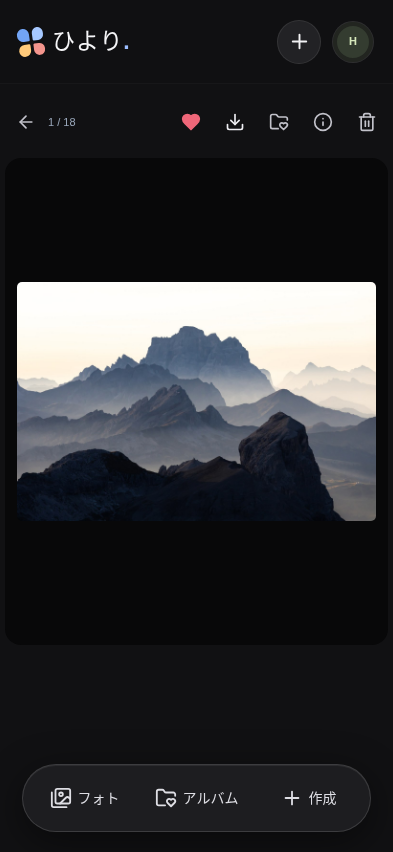
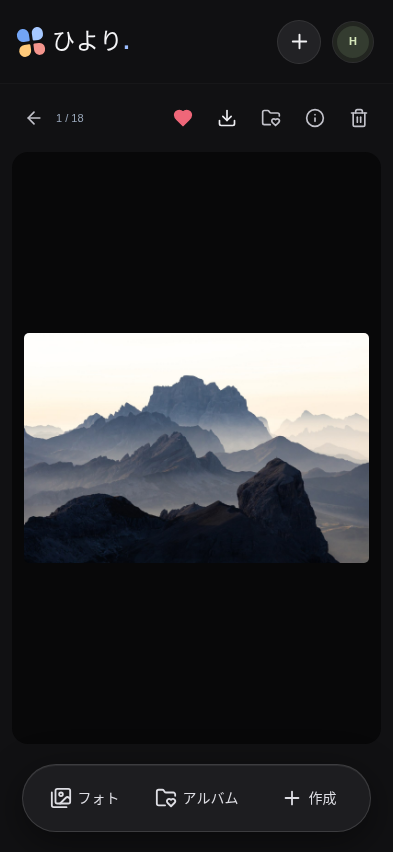
fix: lock photo viewer and reveal arrows on tap

diff --git a/apps/frontend/src/SwipePhotoStage.tsx b/apps/frontend/src/SwipePhotoStage.tsx
@@ -1,31 +1,74 @@
-import { useRef } from 'react';
+import { useRef, useState } from 'react';
+import { ArrowLeft, ArrowRight } from 'lucide-react';
+import { Button } from './components/ui/button';
 
 export function SwipePhotoStage({
   src,
   name,
   onPrevious,
   onNext,
+  initialArrowsVisible = false,
+  onArrowsChange,
 }: {
   src: string;
   name: string;
   onPrevious?: () => void;
   onNext?: () => void;
+  initialArrowsVisible?: boolean;
+  onArrowsChange?: (visible: boolean) => void;
 }) {
-  const start = useRef<{ id: number; x: number; y: number } | null>(null);
+  const [arrowsVisible, setArrowsVisible] = useState(initialArrowsVisible);
+  const start = useRef<{
+    id: number;
+    x: number;
+    y: number;
+    moved: boolean;
+  } | null>(null);
+  function toggleArrows() {
+    const visible = !arrowsVisible;
+    setArrowsVisible(visible);
+    onArrowsChange?.(visible);
+  }
   return (
     <div
       className="detail-stage swipe-photo-stage"
       role="group"
-      aria-label="写真ビューアー。左右スワイプまたは左右キーで写真を移動"
+      aria-label="写真ビューアー。左右スワイプ・左右キーで移動、タップ・Enterで矢印を切り替え"
+      tabIndex={0}
+      onKeyDown={(event) => {
+        if (
+          event.target === event.currentTarget &&
+          (event.key === 'Enter' || event.key === ' ')
+        ) {
+          event.preventDefault();
+          toggleArrows();
+        }
+      }}
       onPointerDown={(event) => {
         start.current = null;
-        if (event.button !== 0 || event.isPrimary === false) return;
+        if (
+          event.button !== 0 ||
+          event.isPrimary === false ||
+          (event.target as Element).closest('button')
+        )
+          return;
         start.current = {
           id: event.pointerId,
           x: event.clientX,
           y: event.clientY,
+          moved: false,
         };
         event.currentTarget.setPointerCapture?.(event.pointerId);
+      }}
+      onPointerMove={(event) => {
+        if (
+          start.current &&
+          Math.hypot(
+            event.clientX - start.current.x,
+            event.clientY - start.current.y,
+          ) > 10
+        )
+          start.current.moved = true;
       }}
       onPointerUp={(event) => {
         const origin = start.current;
@@ -33,6 +76,10 @@ export function SwipePhotoStage({
         if (!origin || origin.id !== event.pointerId) return;
         const dx = event.clientX - origin.x;
         const dy = event.clientY - origin.y;
+        if (!origin.moved && Math.hypot(dx, dy) <= 10) {
+          toggleArrows();
+          return;
+        }
         if (Math.abs(dx) < 50 || Math.abs(dx) <= Math.abs(dy) * 1.5) return;
         if (dx < 0) onNext?.();
         else onPrevious?.();
@@ -45,6 +92,34 @@ export function SwipePhotoStage({
       }}
     >
       <img className="detail-image" src={src} alt={name} draggable={false} />
+      {arrowsVisible && (
+        <>
+          <Button
+            className="previous-photo"
+            variant="outline"
+            size="icon"
+            aria-label="前の写真"
+            disabled={!onPrevious}
+            onPointerDown={(event) => event.stopPropagation()}
+            onPointerUp={(event) => event.stopPropagation()}
+            onClick={onPrevious}
+          >
+            <ArrowLeft size={20} />
+          </Button>
+          <Button
+            className="next-photo"
+            variant="outline"
+            size="icon"
+            aria-label="次の写真"
+            disabled={!onNext}
+            onPointerDown={(event) => event.stopPropagation()}
+            onPointerUp={(event) => event.stopPropagation()}
+            onClick={onNext}
+          >
+            <ArrowRight size={20} />
+          </Button>
+        </>
+      )}
     </div>
   );
 }

diff --git a/apps/frontend/src/SwipePhotoStage.test.tsx b/apps/frontend/src/SwipePhotoStage.test.tsx
@@ -73,3 +73,51 @@ it('先頭・末尾では折り返さず、画像の代替テキストを保つ'
   expect(screen.getByRole('img', { name: '湖畔' })).toBeTruthy();
   expect(screen.queryByRole('button')).toBeNull();
 });
+
+it('タップで矢印を切り替え、画像を作り直さず矢印ボタンで移動する', () => {
+  const onNext = vi.fn(),
+    onArrowsChange = vi.fn();
+  render(
+    <SwipePhotoStage
+      src="photo.jpg"
+      name="湖畔"
+      onNext={onNext}
+      onArrowsChange={onArrowsChange}
+    />,
+  );
+  const stage = screen.getByRole('group');
+  const image = screen.getByRole('img');
+  fireEvent.pointerDown(stage, { button: 0, clientX: 100, clientY: 100 });
+  fireEvent.pointerUp(stage, { clientX: 100, clientY: 100 });
+  const next = screen.getByRole('button', { name: '次の写真' });
+  expect(
+    screen.getByRole('button', { name: '前の写真' }).hasAttribute('disabled'),
+  ).toBe(true);
+  fireEvent.pointerDown(next, { button: 0 });
+  fireEvent.pointerUp(next);
+  fireEvent.click(next);
+  expect(onNext).toHaveBeenCalledOnce();
+  expect(screen.getByRole('button', { name: '次の写真' })).toBe(next);
+  expect(screen.getByRole('img')).toBe(image);
+  fireEvent.pointerDown(stage, { button: 0, clientX: 100, clientY: 100 });
+  fireEvent.pointerUp(stage, { clientX: 100, clientY: 100 });
+  expect(screen.queryByRole('button')).toBeNull();
+  expect(screen.getByRole('img')).toBe(image);
+  expect(onArrowsChange.mock.calls).toEqual([[true], [false]]);
+});
+it('移動して戻したジェスチャーをタップと誤判定しない', () => {
+  render(<SwipePhotoStage src="photo.jpg" name="湖畔" />);
+  const stage = screen.getByRole('group');
+  fireEvent.pointerDown(stage, { button: 0, clientX: 100, clientY: 100 });
+  fireEvent.pointerMove(stage, { clientX: 200, clientY: 100 });
+  fireEvent.pointerUp(stage, { clientX: 100, clientY: 100 });
+  expect(screen.queryByRole('button')).toBeNull();
+});
+it('EnterとSpaceで矢印を表示・非表示にできる', () => {
+  render(<SwipePhotoStage src="photo.jpg" name="湖畔" />);
+  const stage = screen.getByRole('group');
+  fireEvent.keyDown(stage, { key: 'Enter' });
+  expect(screen.getAllByRole('button')).toHaveLength(2);
+  fireEvent.keyDown(stage, { key: ' ' });
+  expect(screen.queryByRole('button')).toBeNull();
+});

diff --git a/apps/frontend/src/MobileDark.stories.tsx b/apps/frontend/src/MobileDark.stories.tsx
@@ -13,7 +13,7 @@ const meta = {
     docs: {
       description: {
         component:
-          '参考画像をもとにしたUIレビュー案。サイドバーとメニューボタンを表示せず、PCでも下部ナビから操作します。ヘッダーはスクロールに追従せず、フォト・アルバム・作成のナビは背景不透明度35%で浮かべます。フォトは見出し・枚数・表示切替・絞り込み・並び順を省き、日付の区切りがない写真グリッドを表示し、スクロール中は上端の写真のアップロード週（UTC）を半透明ラベルで示します。写真詳細は左右の矢印と下部キャプションを省略し、左右スワイプで前後の写真へ移動します。通常時は選択の丸を表示せず、500msの長押し（キーボードはShift+Enter）で複数選択に入ります。選択中は上部に選択数、下部にアルバム追加・お気に入り・ゴミ箱への移動を表示します。共通Appと既存APIを使用し、通常起動は従来のデザインを維持します。393×852でのレビューを推奨。',
+          '参考画像をもとにしたUIレビュー案。サイドバーとメニューボタンを表示せず、PCでも下部ナビから操作します。ヘッダーはスクロールに追従せず、フォト・アルバム・作成のナビは背景不透明度35%で浮かべます。フォトは見出し・枚数・表示切替・絞り込み・並び順を省き、日付の区切りがない写真グリッドを表示し、スクロール中は上端の写真のアップロード週（UTC）を半透明ラベルで示します。写真詳細は上下スクロールせず画面内に固定。左右スワイプで前後へ移動し、写真のタップで矢印を表示・非表示に切り替えます。下部キャプションは表示しません。通常時は選択の丸を表示せず、500msの長押し（キーボードはShift+Enter）で複数選択に入ります。選択中は上部に選択数、下部にアルバム追加・お気に入り・ゴミ箱への移動を表示します。共通Appと既存APIを使用し、通常起動は従来のデザインを維持します。393×852でのレビューを推奨。',
       },
     },
   },

diff --git a/apps/frontend/tests/mobile-dark.spec.ts b/apps/frontend/tests/mobile-dark.spec.ts
@@ -292,7 +292,7 @@ test.describe('長押し選択', () => {
 
 test.describe('写真詳細のスワイプ', () => {
   test.use({ hasTouch: true });
-  test('写真詳細は矢印・キャプションなしで左右スワイプできる', async ({
+  test('写真詳細は上下固定でスワイプし、タップで矢印を切り替えられる', async ({
     page,
   }) => {
     await page.setViewportSize({ width: 393, height: 852 });
@@ -340,7 +340,32 @@ test.describe('写真詳細のスワイプ', () => {
     await expect(photo).toHaveAttribute('alt', '湖畔の朝');
     await swipe('short');
     await expect(photo).toHaveAttribute('alt', '湖畔の朝');
+    const fixedY = (await page.locator('.swipe-photo-stage').boundingBox())?.y;
     await swipe('vertical');
+    await expect(photo).toHaveAttribute('alt', '湖畔の朝');
+    expect(await page.evaluate(() => window.scrollY)).toBe(0);
+    expect((await page.locator('.swipe-photo-stage').boundingBox())?.y).toBe(
+      fixedY,
+    );
+    await page.mouse.wheel(0, 400);
+    await page.evaluate(() => new Promise(requestAnimationFrame));
+    expect(await page.evaluate(() => window.scrollY)).toBe(0);
+    await photo.tap();
+    await expect(
+      page.getByRole('button', { name: '次の写真', exact: true }),
+    ).toBeVisible();
+    await expect(
+      page.getByRole('button', { name: '前の写真', exact: true }),
+    ).toBeDisabled();
+    await page.getByRole('button', { name: '次の写真', exact: true }).tap();
+    await expect(photo).toHaveAttribute('alt', '山へ続く道');
+    await page.getByRole('button', { name: '次の写真', exact: true }).tap();
+    await expect(photo).toHaveAttribute('alt', '青い時間');
+    await page.getByRole('button', { name: '前の写真', exact: true }).tap();
+    await expect(photo).toHaveAttribute('alt', '山へ続く道');
+    await photo.tap();
+    await expect(page.locator('.previous-photo, .next-photo')).toHaveCount(0);
+    await page.keyboard.press('ArrowLeft');
     await expect(photo).toHaveAttribute('alt', '湖畔の朝');
     await page.keyboard.press('ArrowRight');
     await expect(photo).toHaveAttribute('alt', '山へ続く道');

diff --git a/apps/frontend/src/App.tsx b/apps/frontend/src/App.tsx
@@ -118,6 +118,7 @@ function PhotoApp({
     location = useLocation(),
     fileInput = useRef<HTMLInputElement>(null);
   const ignoredPhotoClick = useRef<string | null>(null);
+  const detailArrows = useRef(false);
   function endSelection() {
     setSelected([]);
     setSelectionMode(false);
@@ -167,6 +168,7 @@ function PhotoApp({
   }, []);
   useEffect(() => {
     endSelection();
+    if (!location.pathname.startsWith('/photo/')) detailArrows.current = false;
     setMobileMenu(false);
     setFilter('すべて');
     setShowInfo(false);
@@ -645,6 +647,10 @@ function PhotoApp({
           <SwipePhotoStage
             src={photo.src}
             name={photo.name}
+            initialArrowsVisible={detailArrows.current}
+            onArrowsChange={(visible) => {
+              detailArrows.current = visible;
+            }}
             onPrevious={
               previous ? () => navigate('/photo/' + previous.id) : undefined
             }
@@ -724,7 +730,7 @@ function PhotoApp({
   }
   return (
     <div
-      className={`app-shell${designPreview ? ' mobile-dark' : ''}${designPreview && selectionMode ? ' photo-selection-mode' : ''}`}
+      className={`app-shell${designPreview ? ' mobile-dark' : ''}${designPreview && selectionMode ? ' photo-selection-mode' : ''}${designPreview && location.pathname.startsWith('/photo/') ? ' photo-detail-mode' : ''}`}
     >
       <Toaster position="bottom-center" richColors />
       <header className="topbar">

diff --git a/apps/frontend/src/mobile-dark.css b/apps/frontend/src/mobile-dark.css
@@ -476,10 +476,59 @@ body:has(.mobile-dark) .dialog-description {
 }
 
 .mobile-dark .swipe-photo-stage {
-  touch-action: pan-y pinch-zoom;
+  touch-action: pinch-zoom;
   user-select: none;
   -webkit-user-select: none;
 }
 .mobile-dark .swipe-photo-stage img {
   -webkit-touch-callout: none;
+}
+
+html:has(.mobile-dark.photo-detail-mode),
+body:has(.mobile-dark.photo-detail-mode) {
+  overflow: hidden;
+  overscroll-behavior: none;
+}
+.mobile-dark.photo-detail-mode {
+  position: fixed;
+  inset: 0;
+  height: 100dvh;
+  min-height: 0;
+  overflow: hidden;
+  overscroll-behavior: none;
+  display: flex;
+  flex-direction: column;
+}
+.mobile-dark.photo-detail-mode .topbar {
+  flex-shrink: 0;
+}
+.mobile-dark.photo-detail-mode .main-content {
+  flex: 1;
+  min-height: 0;
+  padding: 12px 12px calc(108px + env(safe-area-inset-bottom, 0px));
+  overflow: hidden;
+}
+.mobile-dark.photo-detail-mode .detail {
+  display: flex;
+  flex-direction: column;
+  height: 100%;
+  min-height: 0;
+  padding: 0;
+}
+.mobile-dark.photo-detail-mode .detail-toolbar {
+  flex-shrink: 0;
+  margin: 0 0 12px;
+}
+.mobile-dark.photo-detail-mode .swipe-photo-stage {
+  flex: 1;
+  height: auto;
+  min-height: 0;
+  margin: 0;
+  padding: 12px;
+  overflow: hidden;
+}
+.mobile-dark.photo-detail-mode .info-panel {
+  max-height: calc(100% - 56px);
+  overflow-y: auto;
+  overscroll-behavior: contain;
 }

diff --git a/apps/frontend/src/App.test.tsx b/apps/frontend/src/App.test.tsx
@@ -293,3 +293,21 @@ it.each(['/', '/album/秋の小旅行'])(
     expect(api.list).toHaveBeenCalledTimes(calls);
   },
 );
+
+it('写真詳細の矢印表示を写真移動中は保ち、一覧へ戻ったらリセットする', async () => {
+  const user = userEvent.setup();
+  render(<App designPreview initialPath="/photo/1" />);
+  const image = await screen.findByRole('img', { name: '湖畔の朝' });
+  screen.getByRole('group', { name: /写真ビューアー/ }).focus();
+  await user.keyboard('{Enter}');
+  expect(screen.getByRole('img', { name: '湖畔の朝' })).toBe(image);
+  await user.click(button('次の写真'));
+  expect(await screen.findByRole('img', { name: '山へ続く道' })).toBeTruthy();
+  expect(button('次の写真')).toBeTruthy();
+  await user.click(button('戻る'));
+  await user.click(
+    await screen.findByRole('button', { name: '湖畔の朝を開く' }),
+  );
+  expect(await screen.findByRole('img', { name: '湖畔の朝' })).toBeTruthy();
+  expect(screen.queryByRole('button', { name: '次の写真' })).toBeNull();
+});

diff --git a/docs/mobile-dark-ui-proposal.md b/docs/mobile-dark-ui-proposal.md
@@ -52,4 +52,8 @@
 
 ## 写真詳細のスワイプ
 
-専用モックの写真詳細では左右の矢印と写真下のタイトル・日付・場所を表示しない。画像の代替テキストと「写真の情報」パネルは維持する。写真上で左へスワイプすると次、右へスワイプすると前の写真へ移動する。横移動50px以上かつ縦移動の1.5倍を超える場合に限り判定し、短いタップ・縦スクロール・複数指・キャンセルでは移動しない。最初と最後では折り返さない。キーボードの左右キーは従来どおり使える。通常アプリの矢印・キャプションは維持する。
+専用モックの写真詳細では初期状態の左右の矢印と写真下のタイトル・日付・場所を表示しない。写真をタップすると左右の矢印を表示し、再タップで隠す。矢印の表示状態は前後の写真へ移動しても維持し、一覧へ戻ると初期状態に戻す。画像の代替テキストと「写真の情報」パネルは維持する。写真上で左へスワイプすると次、右へスワイプすると前の写真へ移動する。横移動50px以上かつ縦移動の1.5倍を超える場合に限り判定し、短いタップ・縦スクロール・複数指・キャンセルでは移動しない。最初と最後では折り返さない。キーボードの左右キーは従来どおり使える。通常アプリの矢印・キャプションは維持する。
+
+写真詳細は動的ビューポート（100dvh）内に固定し、上下スクロール・背景のスクロール連鎖を抑える。写真領域も1本指の縦移動をページスクロールへ渡さず、ピンチズームを許可する。上部操作と下部ナビを除く残りの高さへ写真を収める。情報パネルやダイアログの内部スクロールは維持する。タップとスワイプを区別し、スワイプや移動後の指を離す操作では矢印を切り替えない。キーボードは写真領域にフォーカスしてEnter/Spaceでも矢印を切り替えられる。
+
+![写真タップ後に矢印を表示](images/mobile-dark/detail-arrows.png)
